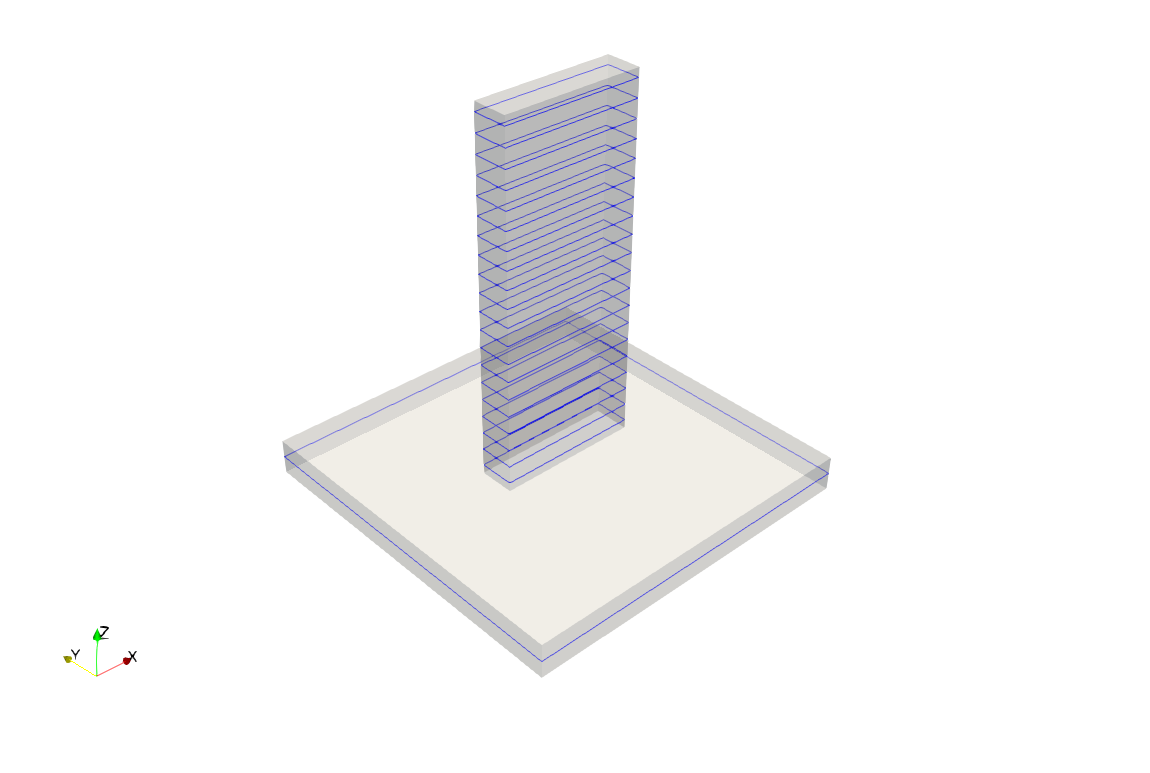
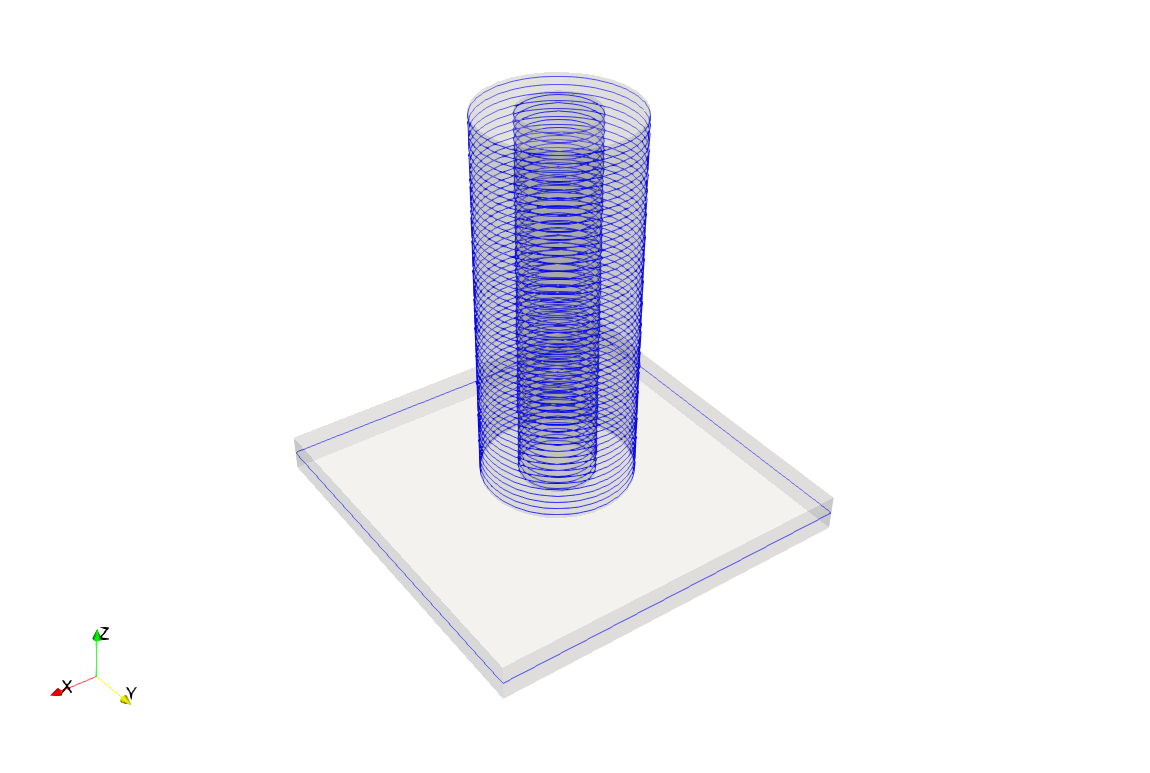
c

Changed region(s): [[0.2435, 0.0621, 0.7304, 0.9004], [0.0304, 0.8072, 0.1217, 0.9004]]

diff --git a/src/_cura/cura_3.rst b/src/_cura/cura_3.rst
@@ -9,9 +9,9 @@ Examples
     cd build
     cmake ..
     make -j4
-    ./AMSolver
+    ./multix
 
-Open ``thinwall.stl`` (located in ``FENGSim/start/AM/build/AM/conf/geo/``) and ``slices.vtk`` (located in ``FENGSim/start/AM/build/data/am/``) using ParaView.
+Open ``hole.stl`` (located in ``FENGSim/start/AM/build/AM/conf/geo/``) and ``slices.vtk`` (located in ``FENGSim/start/AM/build/data/vtk/``) using ParaView.
 
 .. image:: fig/cura_1.png
    :scale: 40 %
@@ -25,9 +25,9 @@ Open ``thinwall.stl`` (located in ``FENGSim/start/AM/build/AM/conf/geo/``) and `
     cd build
     cmake ..
     make -j4
-    ./AMSolver
+    ./multix
 
-Open ``pathplanning.vtk`` (located in ``FENGSim/start/AM/build/data/am/``) using ParaView.
+Open ``pathplanning.vtk`` (located in ``FENGSim/start/AM/build/data/vtk/``) using ParaView.
 
 .. image:: fig/cura_2.png
    :scale: 40 %
